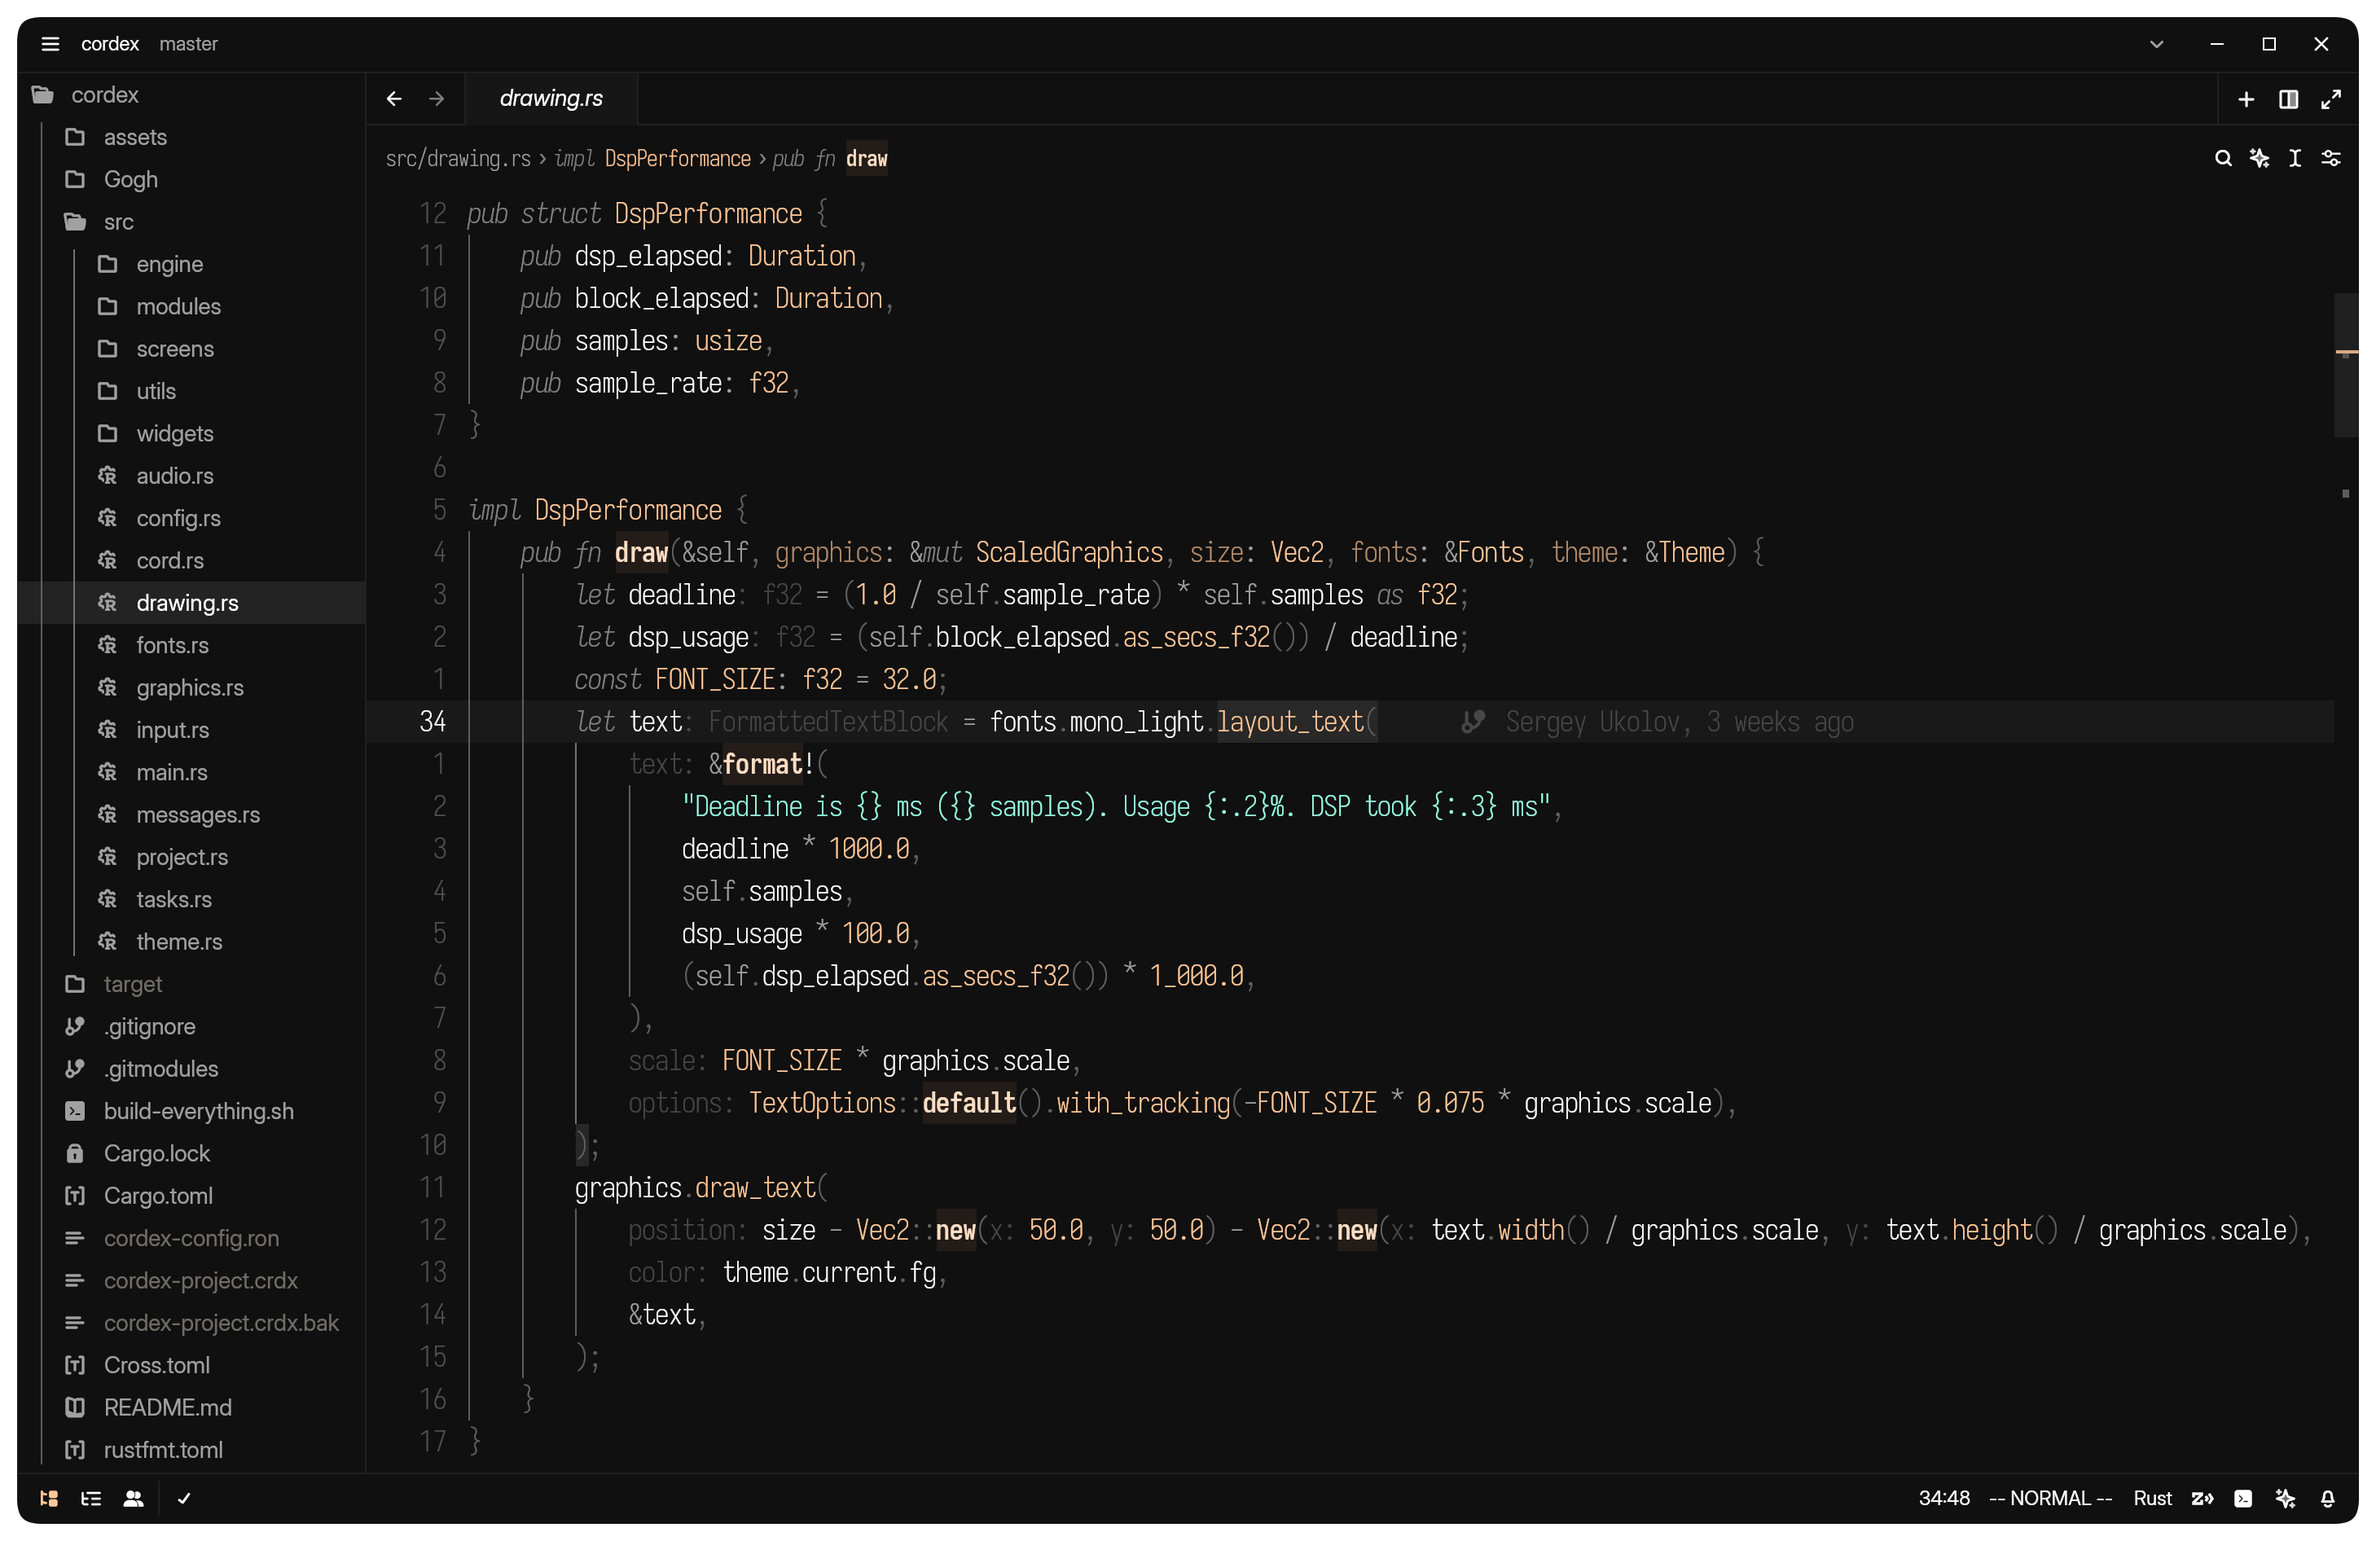
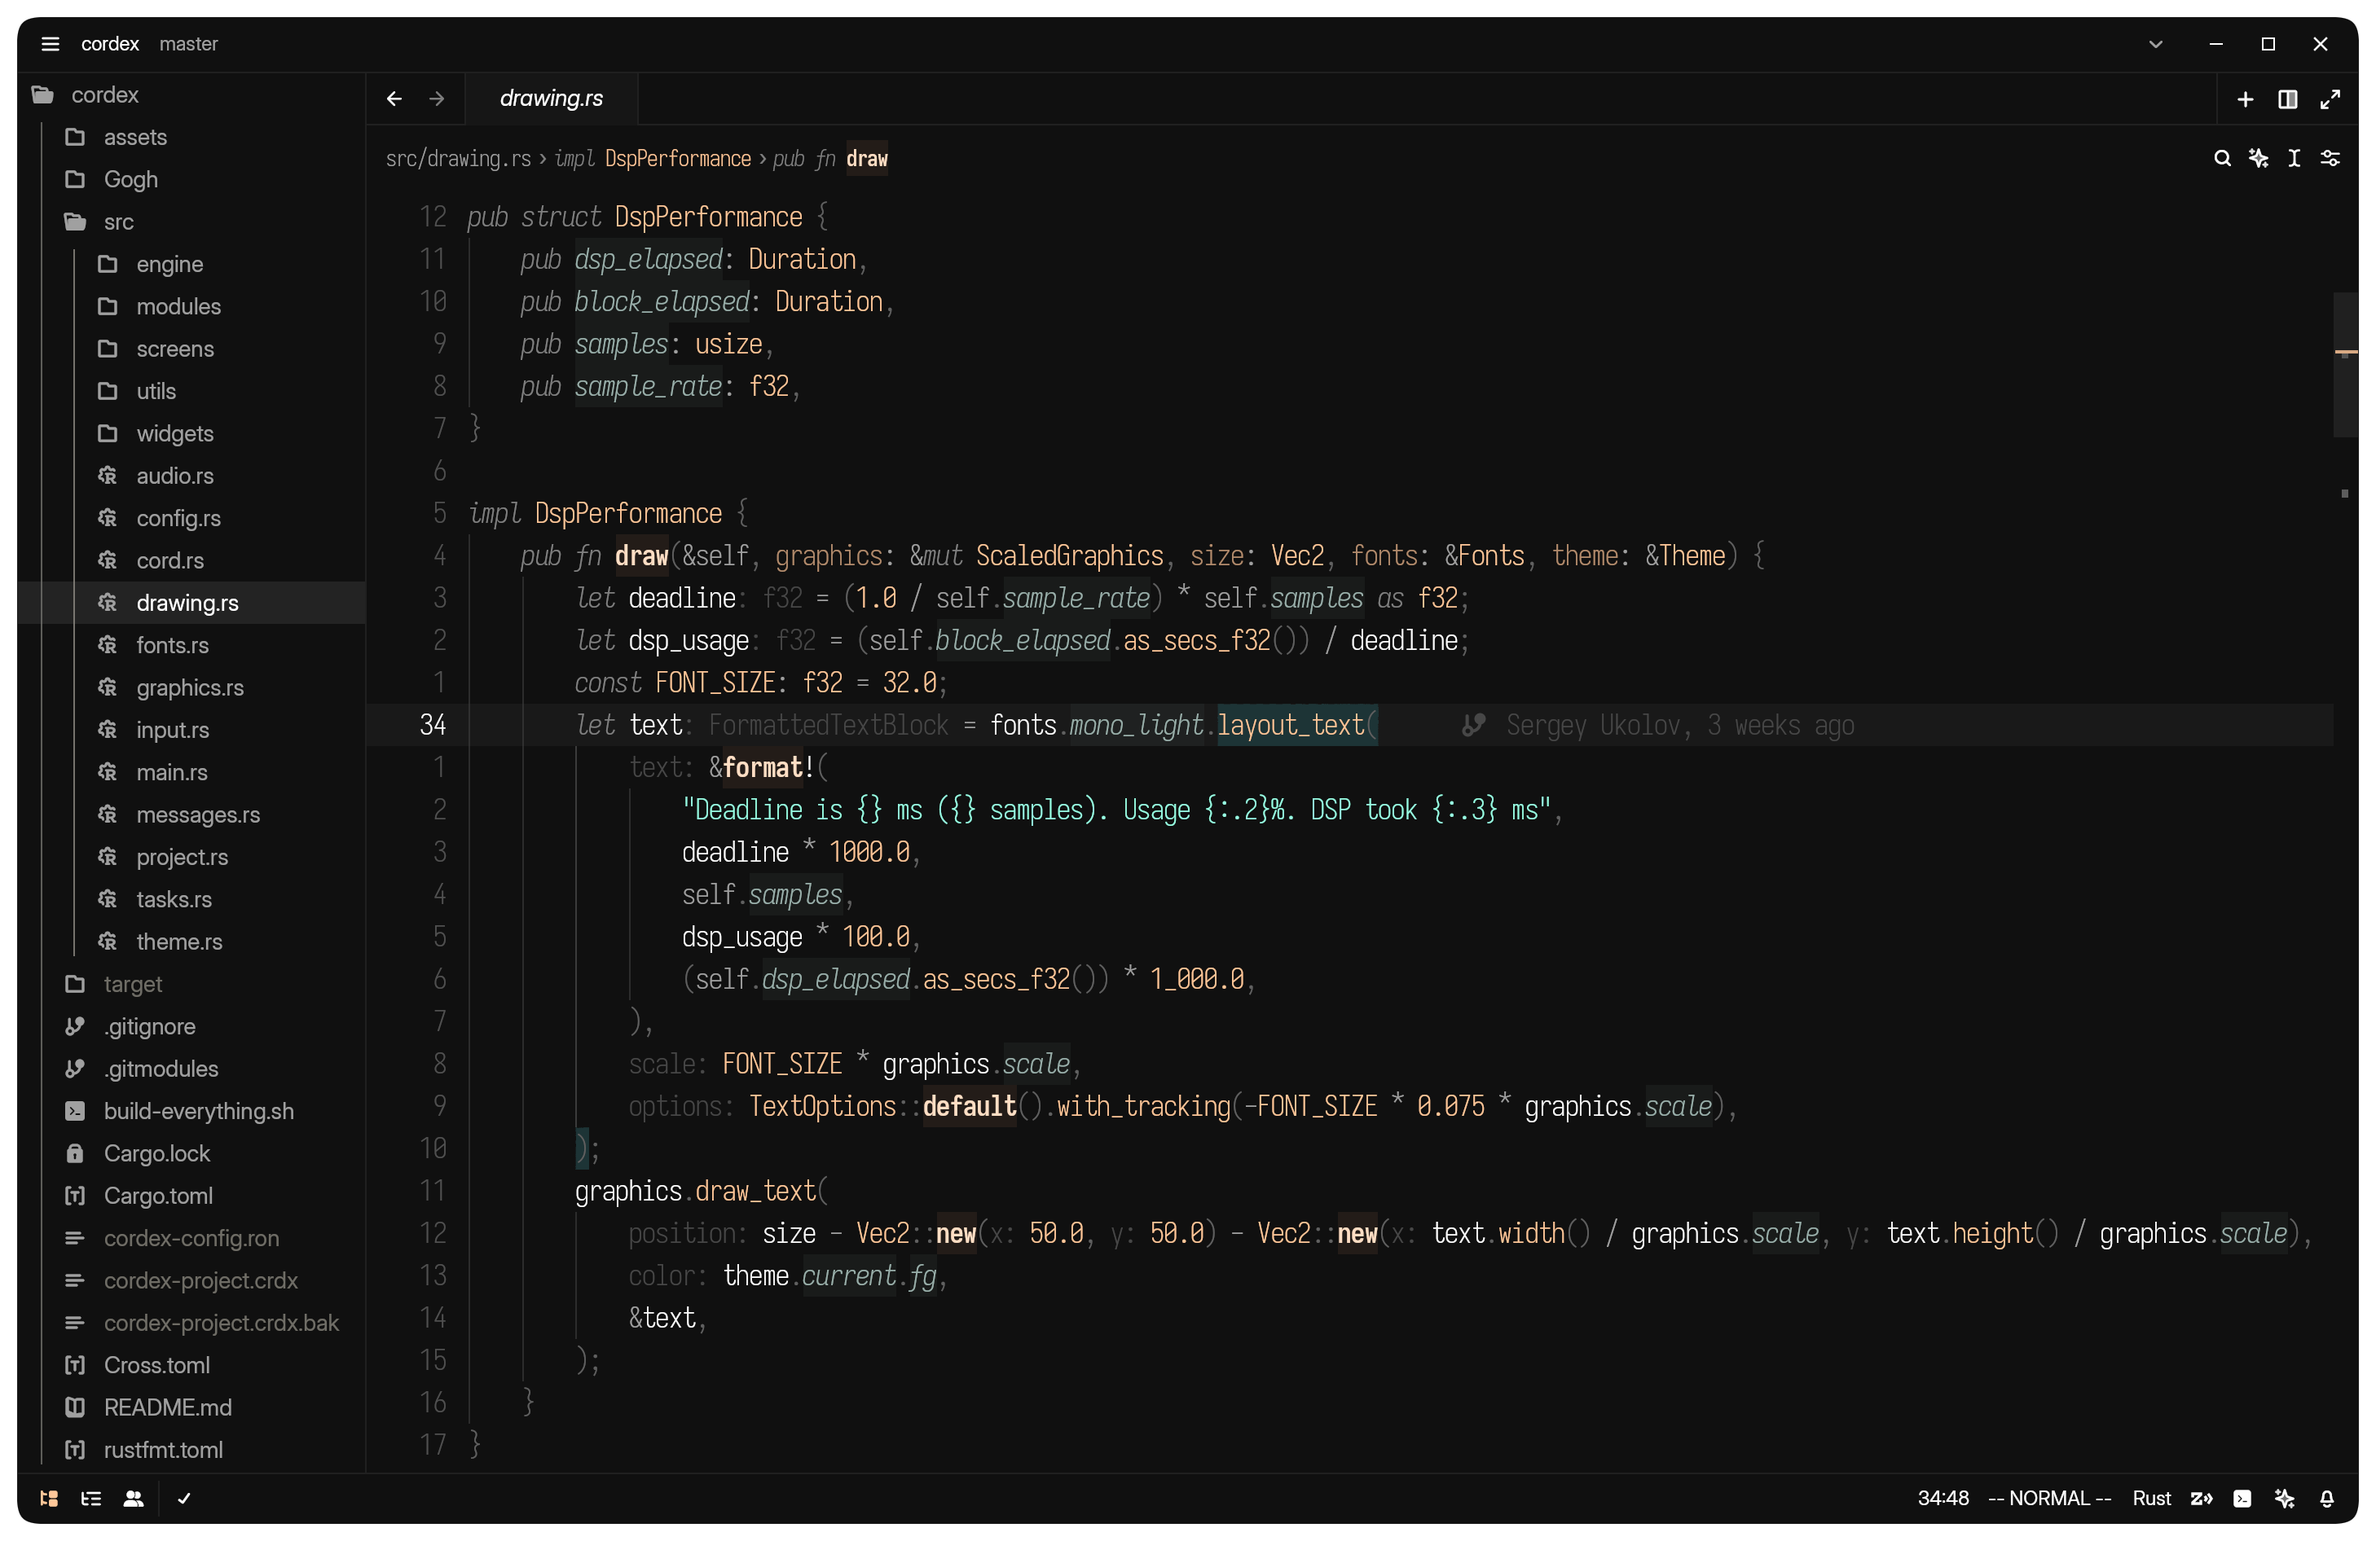
Version 0.0.2, darken indent guides, use accent for properties

diff --git a/CHANGELOG.md b/CHANGELOG.md
@@ -1,0 +1,11 @@
+# Changelog
+
+## 0.0.2
+
+* Reduce indent guide brightness
+* Use accent for properties highlighting
+* More distinct highlighting for matching text segments
+
+## 0.0.1
+
+* Initial release
